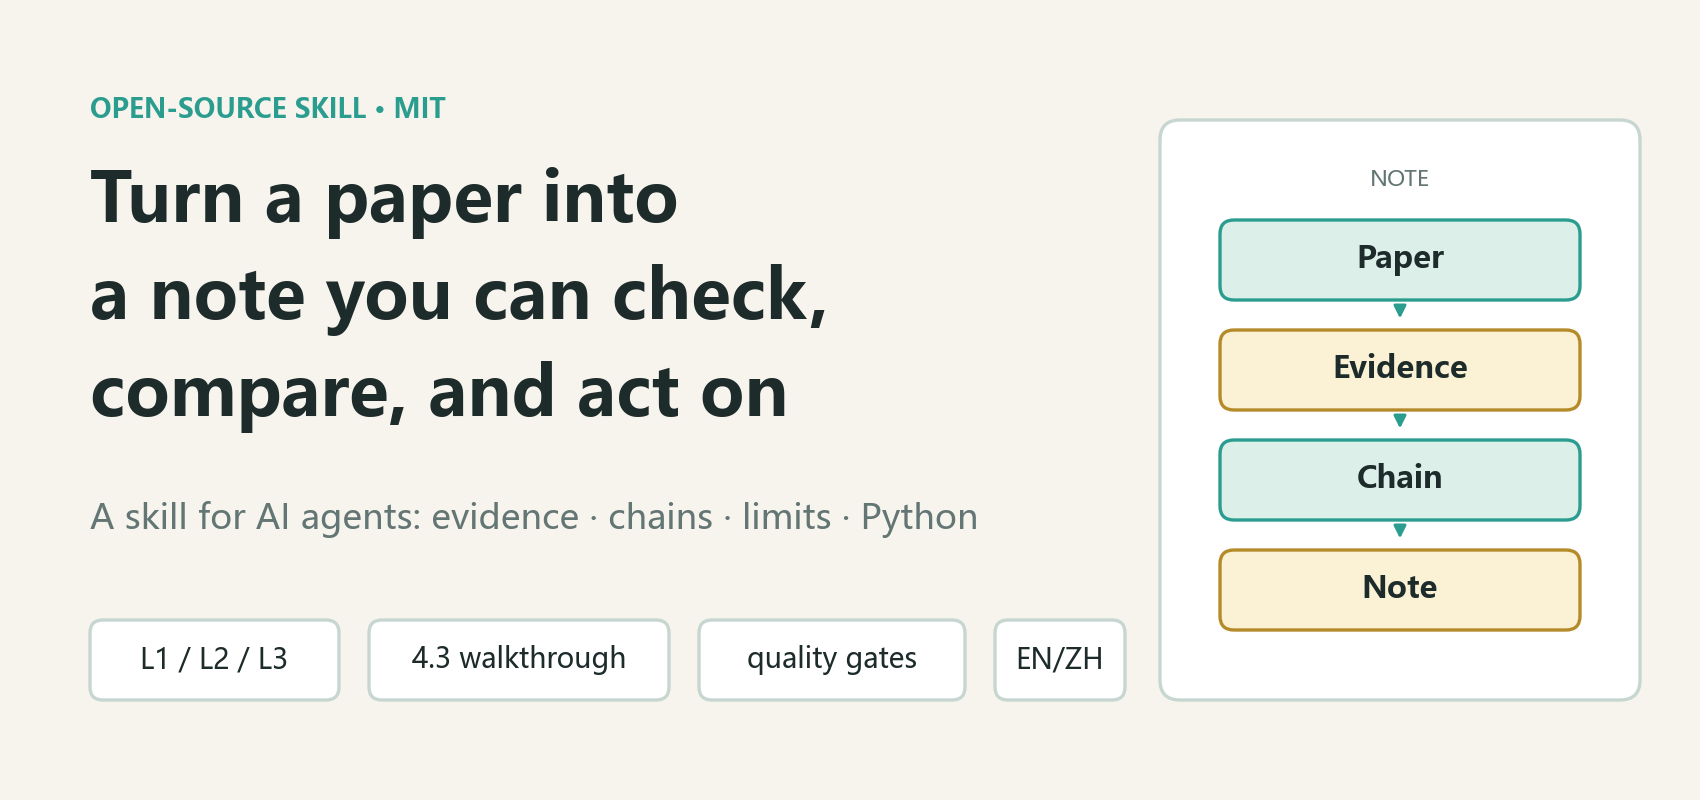
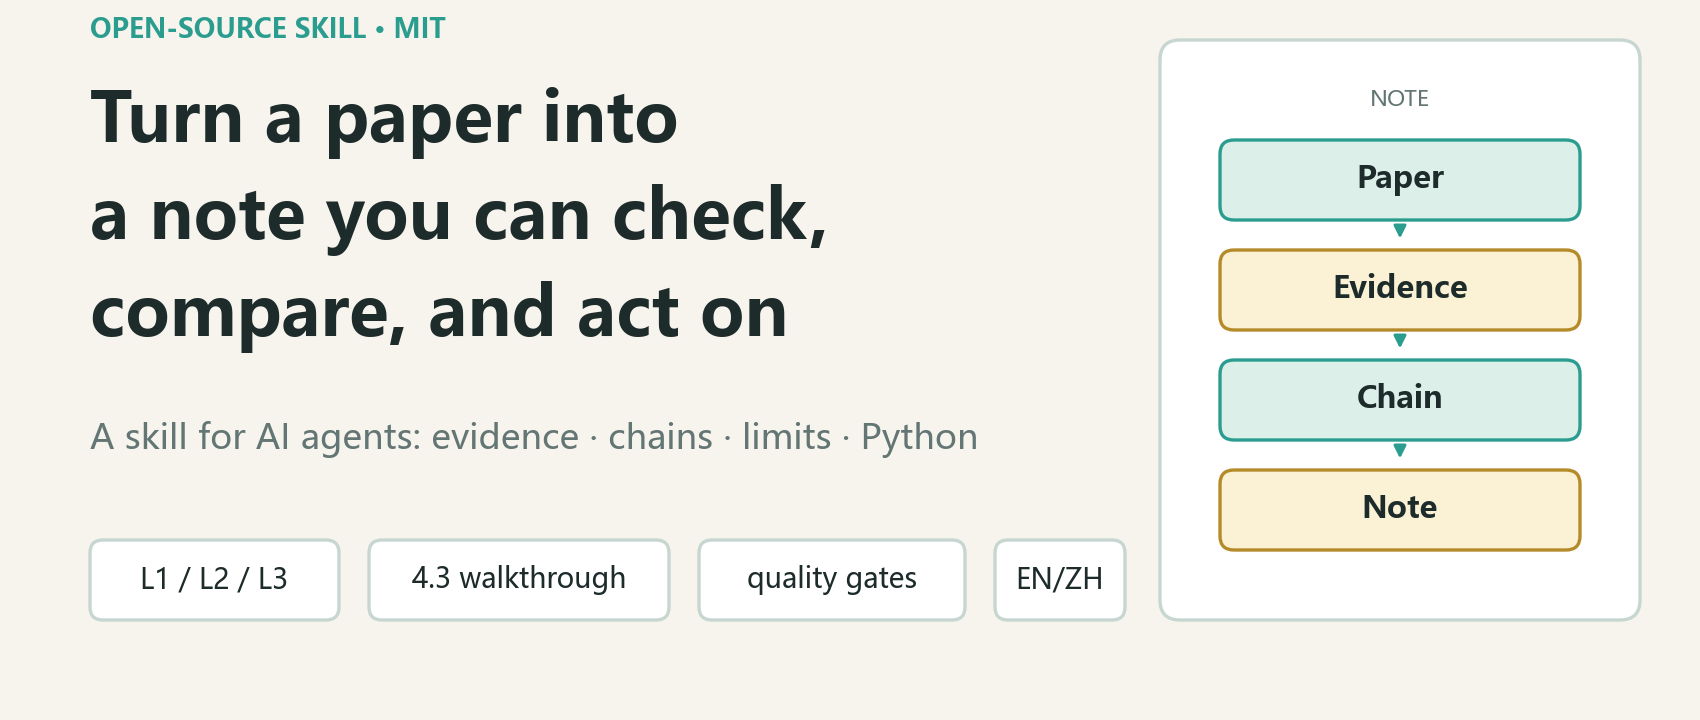
docs: finalize WeChat cover typography and aspect ratio

diff --git a/docs/make_figures.py b/docs/make_figures.py
@@ -421,7 +421,7 @@ COVER = {
 
 def cover(lang: str):
     L = COVER[lang]
-    W, H = 170, 80
+    W, H = 170, 72
     fig, ax = canvas(W, H)
 
     # decorative note card on the right
